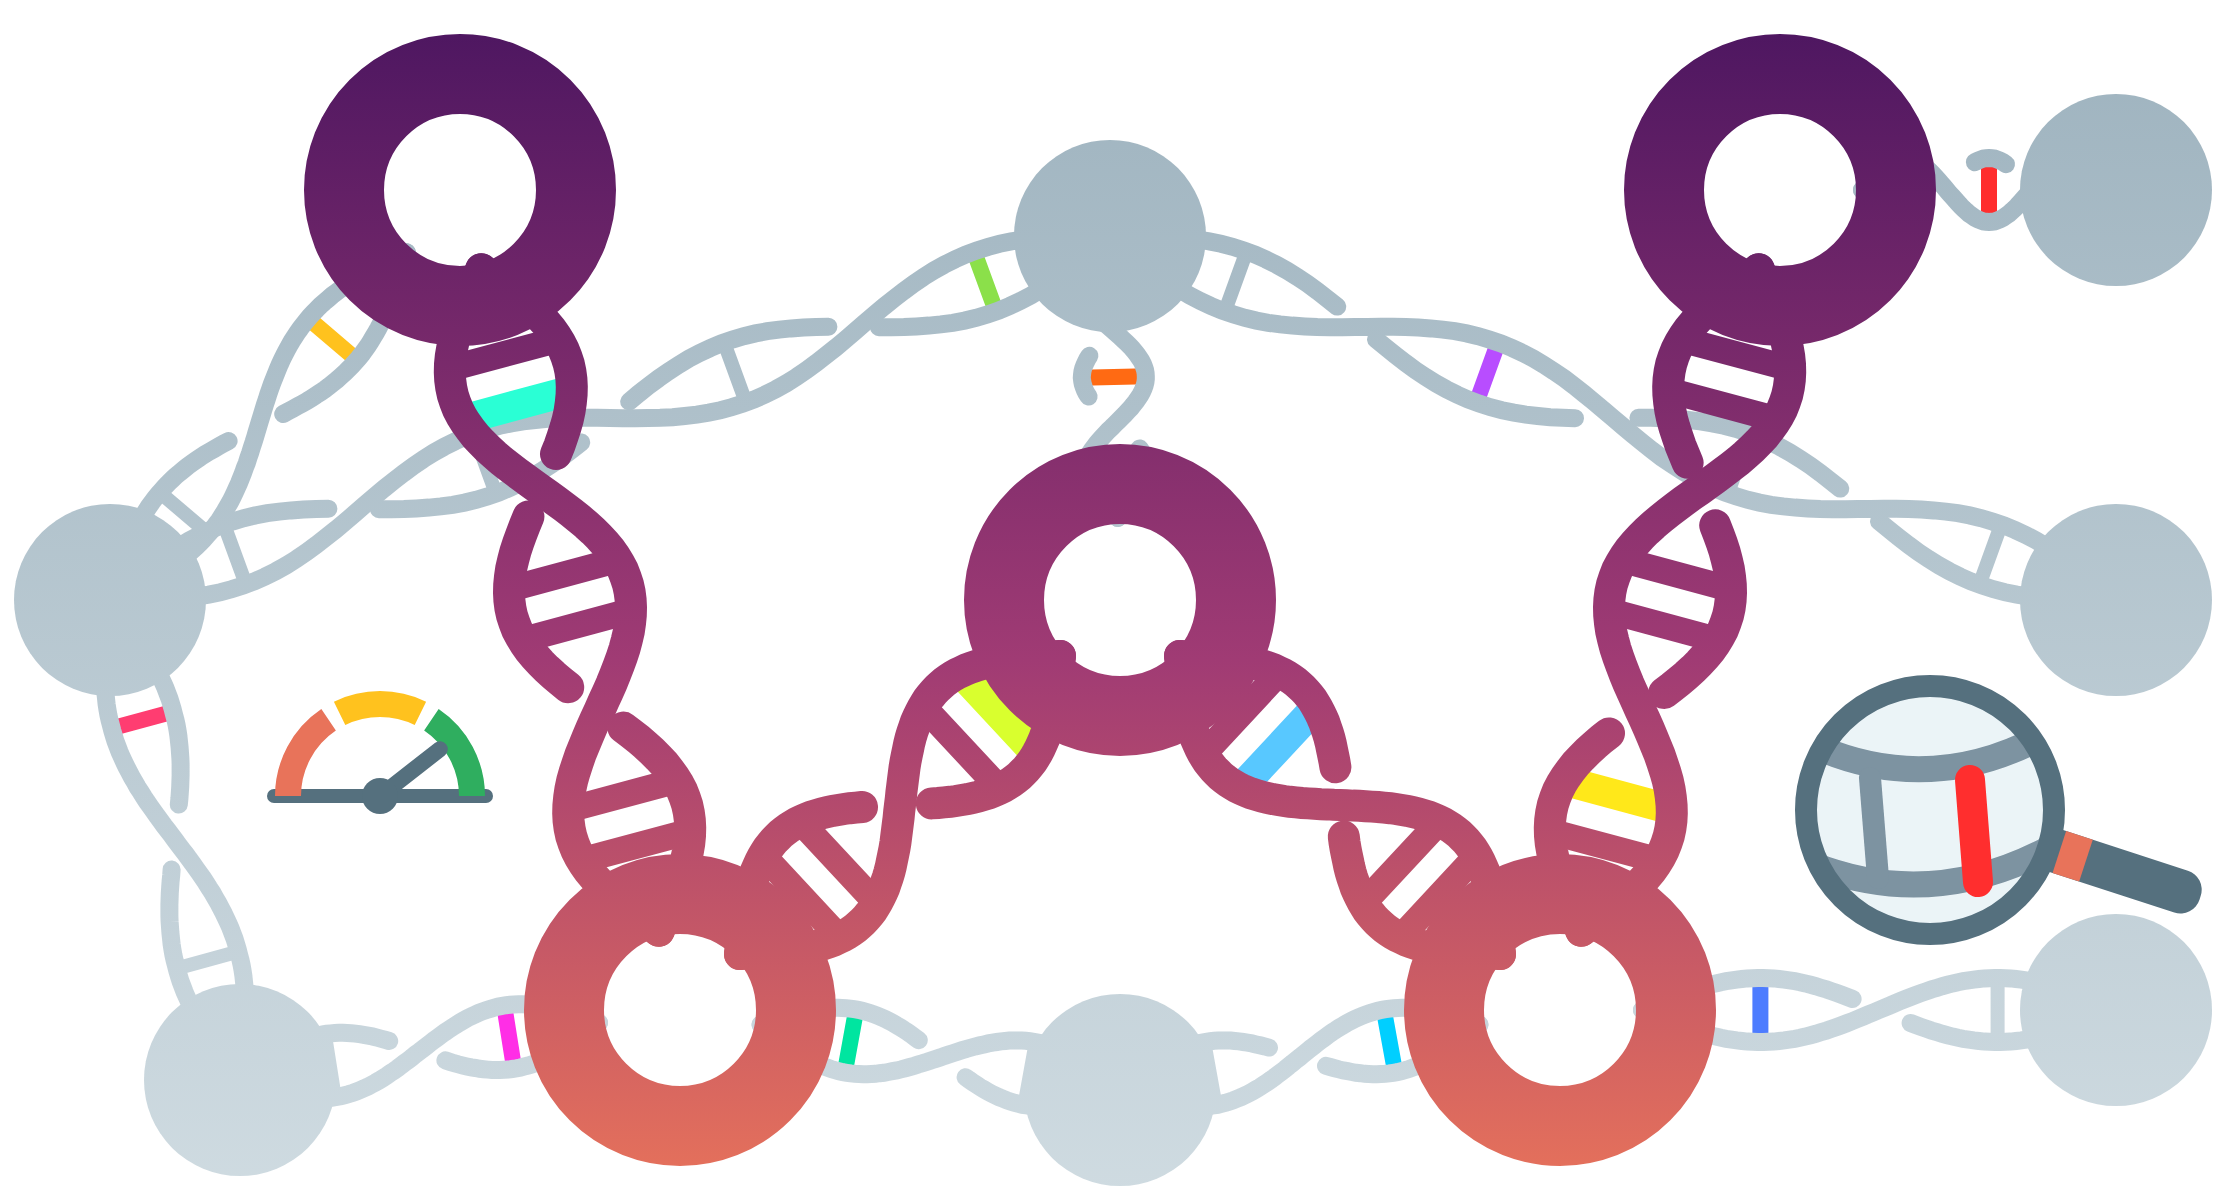
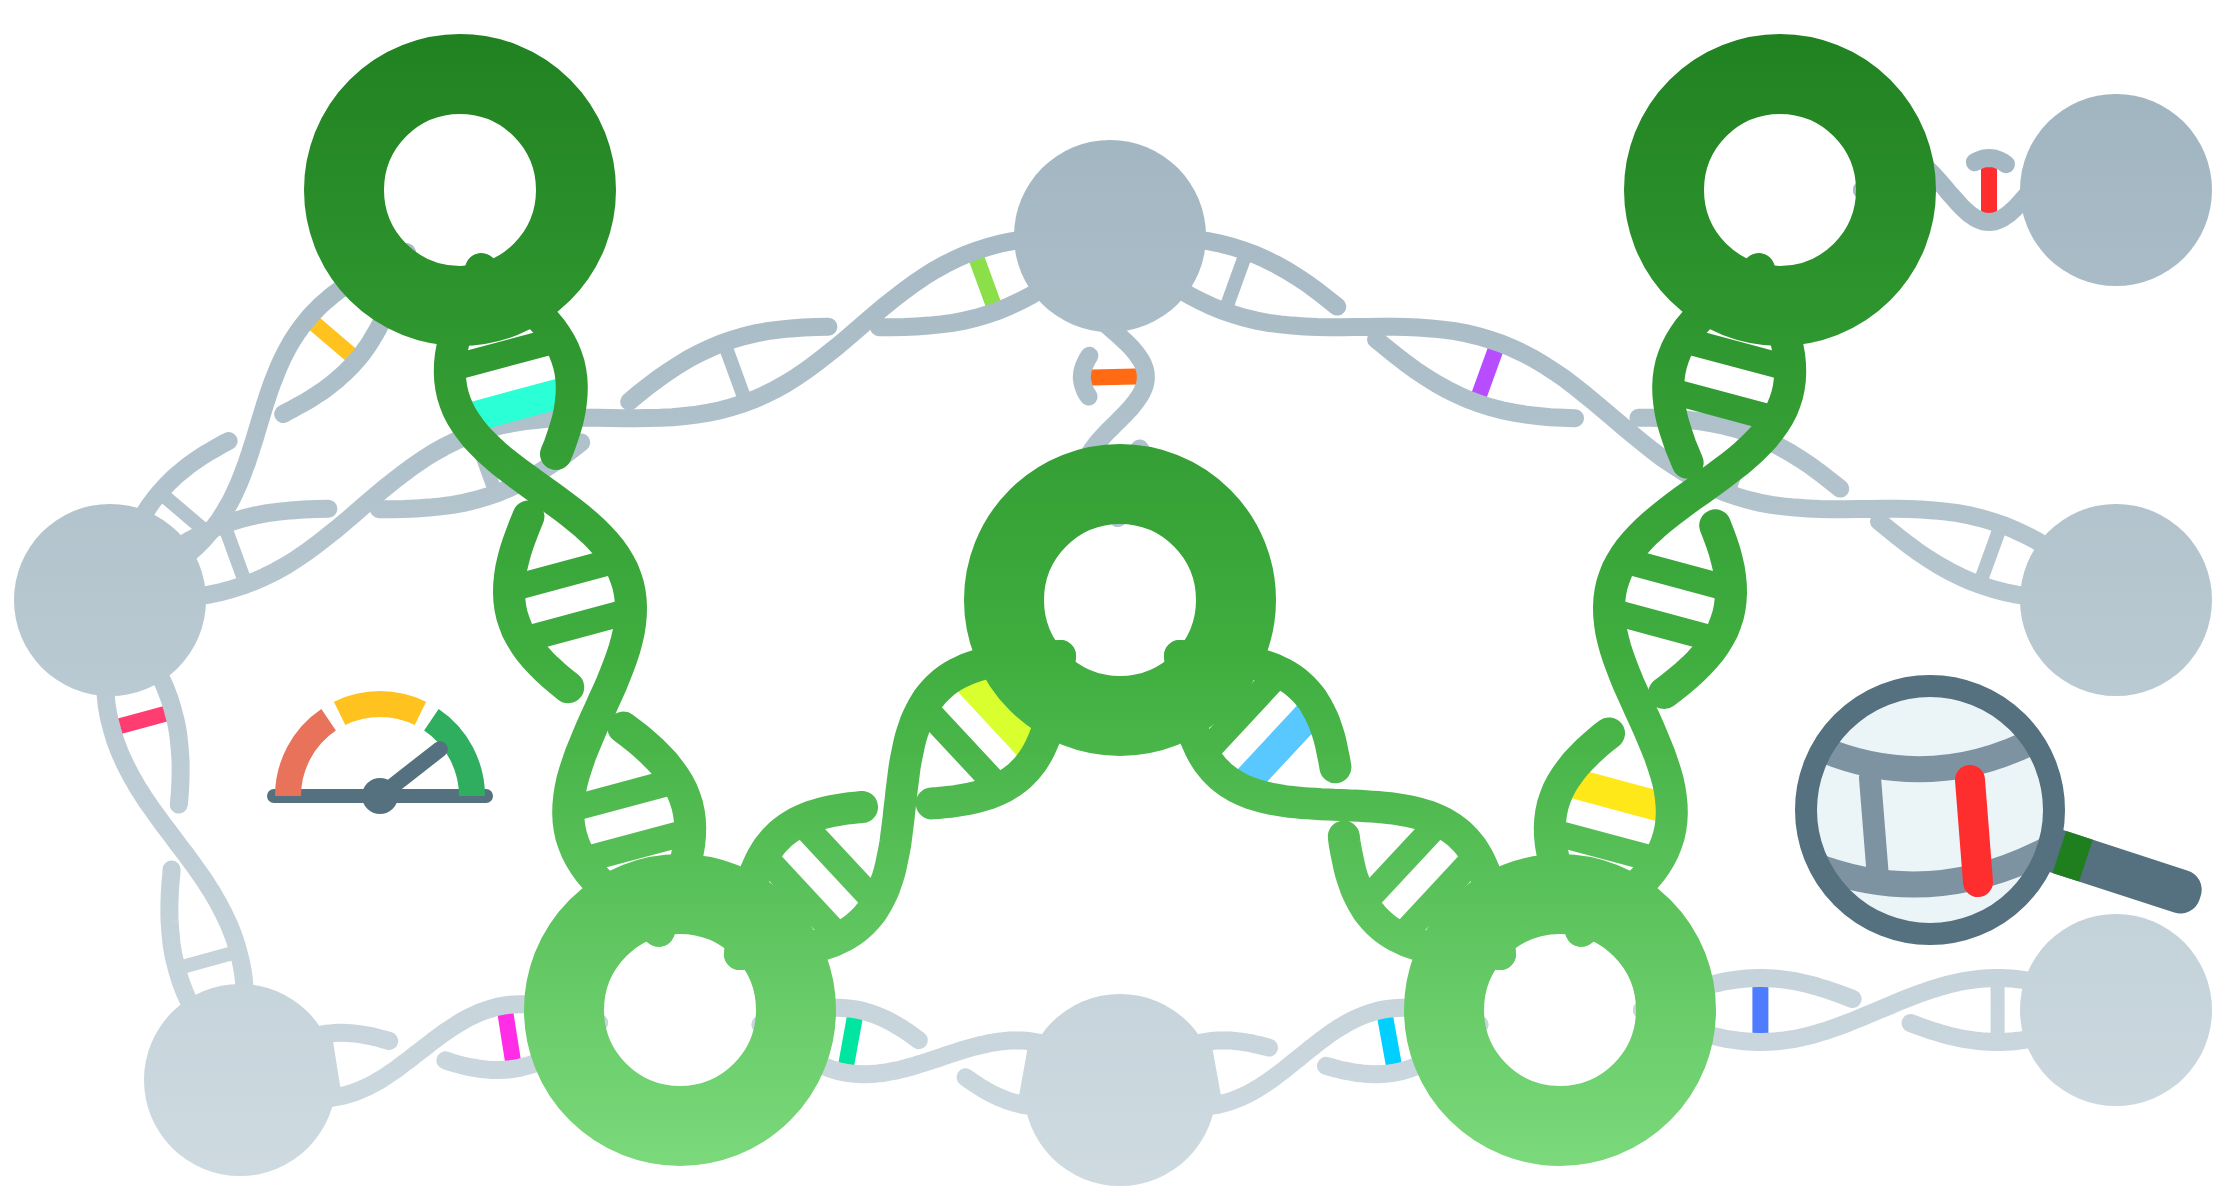
update

Changed region(s): [[0.125, 0.0308, 0.875, 0.9867], [0.9062, 0.6783, 0.9375, 0.74]]

diff --git a/README.md b/README.md
@@ -1,6 +1,6 @@
 <p align="center">
   <a href="https://gomezabajo.github.io/Wodel-Test">
-    <img src="https://gomezabajo.github.io/Wodel/images/wodel-test.png" width="224" height="120" alt="Wodel-Test logo" />
+  Wodel-Test
   </a>
 </p>
 